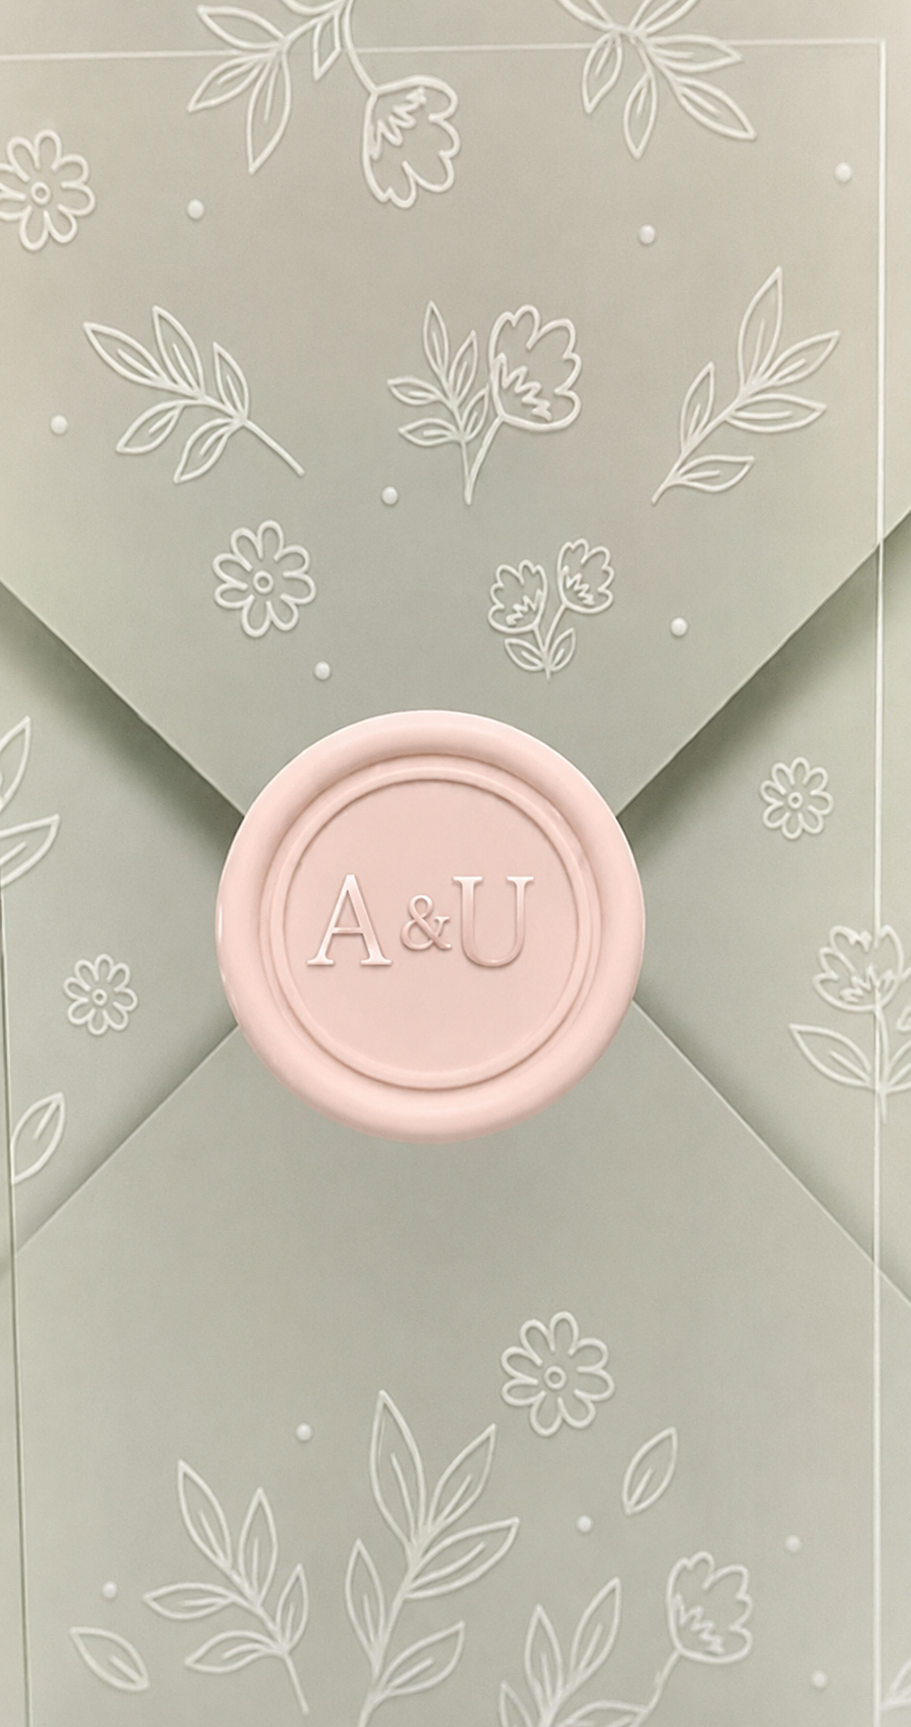
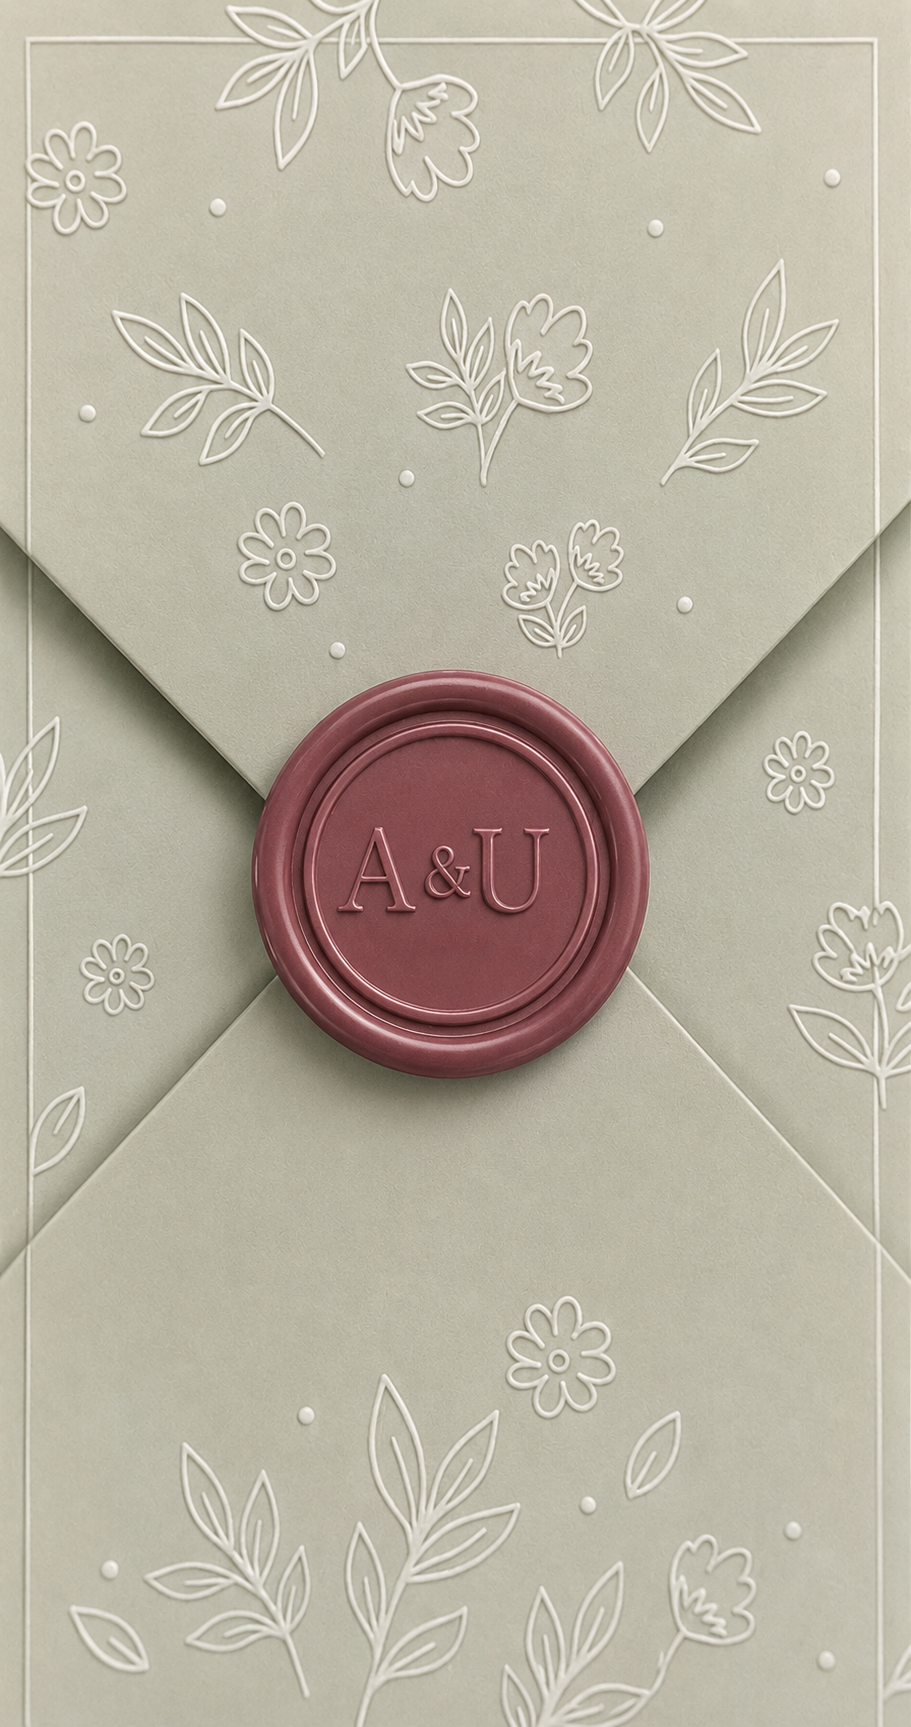
new

diff --git a/style.css b/style.css
@@ -6,6 +6,7 @@
   --font-sans: 'Lato', sans-serif;
   --curtain-color: #EEDACB;
   --door-color: #D5BDB2;
+  --gold-beige: #C5A880;
 }
 
 * { box-sizing: border-box; margin: 0; padding: 0; }
@@ -31,9 +32,7 @@ body.no-scroll { overflow-y: hidden; height: 100vh; touch-action: none; }
   align-items: center;
   user-select: none;
   overflow: hidden;
-  background: rgba(0, 0, 0, 0.45);
-  backdrop-filter: blur(8px);
-  -webkit-backdrop-filter: blur(8px);
+  background: transparent;
   transition: opacity 1.5s ease-in-out, visibility 1.5s;
 }
 
@@ -66,12 +65,10 @@ body.no-scroll { overflow-y: hidden; height: 100vh; touch-action: none; }
 
 .left-flap {
   left: 0;
-  border-right: 1px solid rgba(255, 255, 255, 0.15);
 }
 
 .right-flap {
   right: 0;
-  border-left: 1px solid rgba(255, 255, 255, 0.15);
 }
 
 .flap-bg {
@@ -79,7 +76,7 @@ body.no-scroll { overflow-y: hidden; height: 100vh; touch-action: none; }
   top: 0;
   width: 200%;
   height: 100%;
-  background: radial-gradient(circle, rgba(0,0,0,0.15) 0%, rgba(0,0,0,0.3) 100%), url('/stampcard.png') no-repeat center center;
+  background: url('/stampcard.png') no-repeat center center;
   background-size: cover;
 }
 
@@ -133,12 +130,12 @@ body.no-scroll { overflow-y: hidden; height: 100vh; touch-action: none; }
 }
 
 .instruction-text-line {
-  font-family: var(--font-serif);
-  font-size: 1.5rem;
-  color: #5C4A3E; /* warm dark bronze/brown */
-  font-weight: 600;
-  letter-spacing: 1.5px;
-  line-height: 1.4;
+  font-family: var(--font-sans);
+  font-size: 1.1rem;
+  color: #5C4A3E;
+  font-weight: 400;
+  letter-spacing: 3px;
+  line-height: 1.6;
   text-transform: uppercase;
   text-shadow: 0 1px 2px rgba(255, 255, 255, 0.9);
 }
@@ -494,6 +491,190 @@ canvas#scratch-canvas { position: absolute; inset: 0; z-index: 2; border-radius:
   font-style: italic;
 }
 
+/* --- Capital Letter Areej --- */
+.bride-name .capital-a {
+  font-family: 'Great Vibes', cursive;
+  font-size: 1em;
+  color: #A9334D;
+}
+
+/* --- Falling Yellow Flowers --- */
+.falling-yellow-flower {
+  position: fixed;
+  top: -50px;
+  pointer-events: none;
+  z-index: 9999;
+  background-image: url('/yellow_flower.png');
+  background-size: contain;
+  background-repeat: no-repeat;
+  animation: fall linear forwards;
+}
+
+/* --- Updated Wedding Detail Section --- */
+.wedding-title {
+  font-family: 'Great Vibes', cursive;
+  font-size: 4.5rem;
+  font-weight: 400;
+  color: #c78b98;
+  margin-bottom: 0.5rem;
+  line-height: 1.1;
+}
+
+.wedding-subtitle {
+  font-family: var(--font-serif);
+  font-size: 1.25rem;
+  font-style: italic;
+  color: #797979;
+  margin-bottom: 2rem;
+  line-height: 1.4;
+}
+
+.wedding-day {
+  font-family: var(--font-sans);
+  font-size: 1.1rem;
+  font-weight: 700;
+  letter-spacing: 2px;
+  text-transform: uppercase;
+  color: #3A3A3A;
+  margin-bottom: 0.4rem;
+}
+
+.wedding-date {
+  font-family: var(--font-serif);
+  font-size: 1.8rem;
+  font-weight: 600;
+  color: #3a3a3a;
+  margin-bottom: 0.4rem;
+}
+
+.wedding-time {
+  font-family: var(--font-serif);
+  font-size: 1.45rem;
+  font-style: italic;
+  color: #797979;
+  margin-bottom: 2.2rem;
+}
+
+.wedding-image-container {
+  margin-top: 1.5rem;
+  width: 100%;
+  max-width: 320px;
+  margin-left: auto;
+  margin-right: auto;
+  border-radius: 15px;
+  overflow: hidden;
+  box-shadow: 0 10px 25px rgba(0,0,0,0.06);
+  border: 4px solid #fff;
+  transition: transform 0.4s ease;
+}
+
+.wedding-image-container:hover {
+  transform: scale(1.02);
+}
+
+.wedding-image {
+  width: 100%;
+  height: auto;
+  display: block;
+}
+
+/* --- Families Section --- */
+.families-section {
+  min-height: 100vh;
+  display: flex;
+  justify-content: center;
+  align-items: center;
+  padding: 5rem 1.5rem;
+  background-color: var(--bg-beige);
+}
+
+.families-content {
+  max-width: 600px;
+  width: 100%;
+  text-align: center;
+  display: flex;
+  flex-direction: column;
+  align-items: center;
+}
+
+.with-love-text {
+  font-family: var(--font-sans);
+  font-size: 1.1rem;
+  font-weight: 700;
+  letter-spacing: 4px;
+  color: var(--gold-beige);
+  margin-bottom: 0.5rem;
+  text-transform: uppercase;
+}
+
+.the-families-title {
+  font-family: 'Great Vibes', cursive;
+  font-size: 4.5rem;
+  font-weight: 400;
+  color: var(--gold-beige);
+  margin-bottom: 3.5rem;
+  line-height: 1.1;
+}
+
+.family-cards-container {
+  display: flex;
+  flex-direction: column;
+  gap: 2rem;
+  width: 100%;
+  align-items: center;
+}
+
+.family-card {
+  background-color: #F0E2CC;
+  border-radius: 20px;
+  padding: 2.5rem 2rem;
+  width: 100%;
+  max-width: 420px;
+  box-shadow: 0 15px 35px rgba(197, 168, 128, 0.12);
+  display: flex;
+  flex-direction: column;
+  align-items: center;
+  text-align: center;
+  transition: transform 0.4s ease, box-shadow 0.4s ease, opacity 1.5s ease, transform 1.5s ease;
+  opacity: 0;
+  transform: translateY(40px);
+}
+
+.family-card.visible {
+  opacity: 1;
+  transform: translateY(0);
+}
+
+.family-card:hover {
+  transform: translateY(-5px);
+  box-shadow: 0 20px 40px rgba(197, 168, 128, 0.25);
+}
+
+.family-title {
+  font-family: var(--font-serif);
+  font-size: 1.65rem;
+  font-weight: 600;
+  color: #8E4A59; /* premium deep rose pink for contrast on golden beige */
+  margin-bottom: 1.5rem;
+  letter-spacing: 0.5px;
+  border-bottom: 1px solid rgba(142, 74, 89, 0.2);
+  padding-bottom: 0.5rem;
+  width: 80%;
+}
+
+.family-member {
+  font-family: var(--font-sans);
+  font-size: 1.05rem;
+  color: #3A2F28;
+  line-height: 1.6;
+  margin-bottom: 0.5rem;
+  font-weight: 500;
+}
+
+.family-member:last-child {
+  margin-bottom: 0;
+}
+
 /* Responsive Setup */
 @media (max-width: 768px) {
   .surprise-couple-names { font-size: 3.8rem; }
@@ -505,4 +686,9 @@ canvas#scratch-canvas { position: absolute; inset: 0; z-index: 2; border-radius:
   .invited-text { font-size: 3rem; }
   .mehndi-title { font-size: 3.2rem; }
   .mehndi-day, .mehndi-date, .mehndi-time, .mehndi-address { font-size: 1.2rem; }
+  
+  .wedding-title { font-size: 3.8rem; }
+  .the-families-title { font-size: 3.8rem; }
+  .family-cards-container { gap: 1.5rem; }
+  .family-card { padding: 2rem 1.5rem; }
 }

diff --git a/main.js b/main.js
@@ -55,8 +55,8 @@ document.addEventListener('DOMContentLoaded', () => {
   }, { threshold: 0.5 });
   venueObserver.observe(venueSection);
 
-  // 3. Scroll Reveal for Cards (Valima + Outro)
-  const revealElements = document.querySelectorAll('.glass-card, .mehndi-card, .outro-content');
+  // 3. Scroll Reveal for Cards (Valima + Families + Outro)
+  const revealElements = document.querySelectorAll('.glass-card, .mehndi-card, .family-card, .outro-content');
   const revealObserver = new IntersectionObserver((entries) => {
     entries.forEach(entry => {
       if (entry.isIntersecting) {
@@ -66,6 +66,21 @@ document.addEventListener('DOMContentLoaded', () => {
   }, { threshold: 0.3 });
 
   revealElements.forEach(el => revealObserver.observe(el));
+
+  // 3b. Mehndi Section Yellow Flower Shower Observer
+  const mehndiSection = document.getElementById('mehndi');
+  let hasShowedYellowFlowers = false;
+  const mehndiObserver = new IntersectionObserver((entries) => {
+    entries.forEach(entry => {
+      if (entry.isIntersecting && !hasShowedYellowFlowers) {
+        hasShowedYellowFlowers = true;
+        startYellowFlowerShower();
+      }
+    });
+  }, { threshold: 0.8 });
+  if (mehndiSection) {
+    mehndiObserver.observe(mehndiSection);
+  }
 
   // 4. Scratch Card Logic
   setupScratchCard();
@@ -252,4 +267,47 @@ function initCountdown() {
 
   update();
   const timerInterval = setInterval(update, 1000);
+}
+
+function startYellowFlowerShower() {
+  const container = document.body;
+  const duration = 4000; // spawn for 4 seconds
+  const petalCount = 6; // number of petals to spawn per interval
+  
+  const spawnInterval = setInterval(() => {
+    for (let i = 0; i < petalCount; i++) {
+      const petal = document.createElement('div');
+      petal.className = 'falling-yellow-flower';
+      
+      // Random sizes between 15px and 32px
+      const size = Math.random() * 17 + 15;
+      petal.style.width = `${size}px`;
+      petal.style.height = `${size}px`;
+      
+      // Random starting horizontal position across viewport
+      petal.style.left = `${Math.random() * 100}vw`;
+      
+      // Random animation duration between 2.5s and 5s
+      const animDuration = Math.random() * 2.5 + 2.5;
+      petal.style.animationDuration = `${animDuration}s`;
+      
+      // Random opacity starting state
+      petal.style.opacity = Math.random() * 0.4 + 0.6;
+      
+      // Random initial rotation
+      petal.style.transform = `rotate(${Math.random() * 360}deg)`;
+      
+      container.appendChild(petal);
+      
+      // Remove petal from DOM once it completes falling
+      setTimeout(() => {
+        petal.remove();
+      }, animDuration * 1000);
+    }
+  }, 120);
+
+  // Stop spawning after 4 seconds
+  setTimeout(() => {
+    clearInterval(spawnInterval);
+  }, duration);
 }

diff --git a/index.html b/index.html
@@ -42,7 +42,7 @@
         <p class="invite-text-line">Wedding of their daughter</p>
 
         <div class="main-names-container">
-          <h1 class="bride-name">Areej</h1>
+          <h1 class="bride-name"><span class="capital-a">A</span>reej</h1>
           <p class="with-text">WITH</p>
           <h1 class="groom-name">Usman</h1>
         </div>
@@ -118,10 +118,38 @@
 
     <section id="details" class="details-section">
       <div class="glass-card">
-        <h2>Wedding Celebration</h2>
-        <p class="date-highlight">12th August 2026</p>
-        <div class="divider"></div>
-        <p class="venue-highlight">Grace Marquis</p>
+        <h2 class="wedding-title">Wedding</h2>
+        <p class="wedding-subtitle">A night of celebration and new beginnings</p>
+        <p class="wedding-day">Wednesday</p>
+        <p class="wedding-date">12th August 2026</p>
+        <p class="wedding-time">7pm</p>
+        <div class="wedding-image-container">
+          <img src="/wedding.png" alt="Wedding" class="wedding-image" />
+        </div>
+      </div>
+    </section>
+
+    <!-- Families Section -->
+    <section id="families" class="families-section">
+      <div class="families-content">
+        <p class="with-love-text">WITH LOVE</p>
+        <h2 class="the-families-title">The Families</h2>
+        
+        <div class="family-cards-container">
+          <div class="family-card">
+            <h3 class="family-title">Bride's family</h3>
+            <p class="family-member">Mr Badar Zaman</p>
+            <p class="family-member">Mrs Zabila Badar</p>
+            <p class="family-member">Mr Moeez Badar</p>
+            <p class="family-member">Mrs Marwah Moeez</p>
+          </div>
+          
+          <div class="family-card">
+            <h3 class="family-title">Groom's family</h3>
+            <p class="family-member">Groom's mother: Abida Naz</p>
+            <p class="family-member">Groom's brother: Muhammad Imran Khan</p>
+          </div>
+        </div>
       </div>
     </section>
 